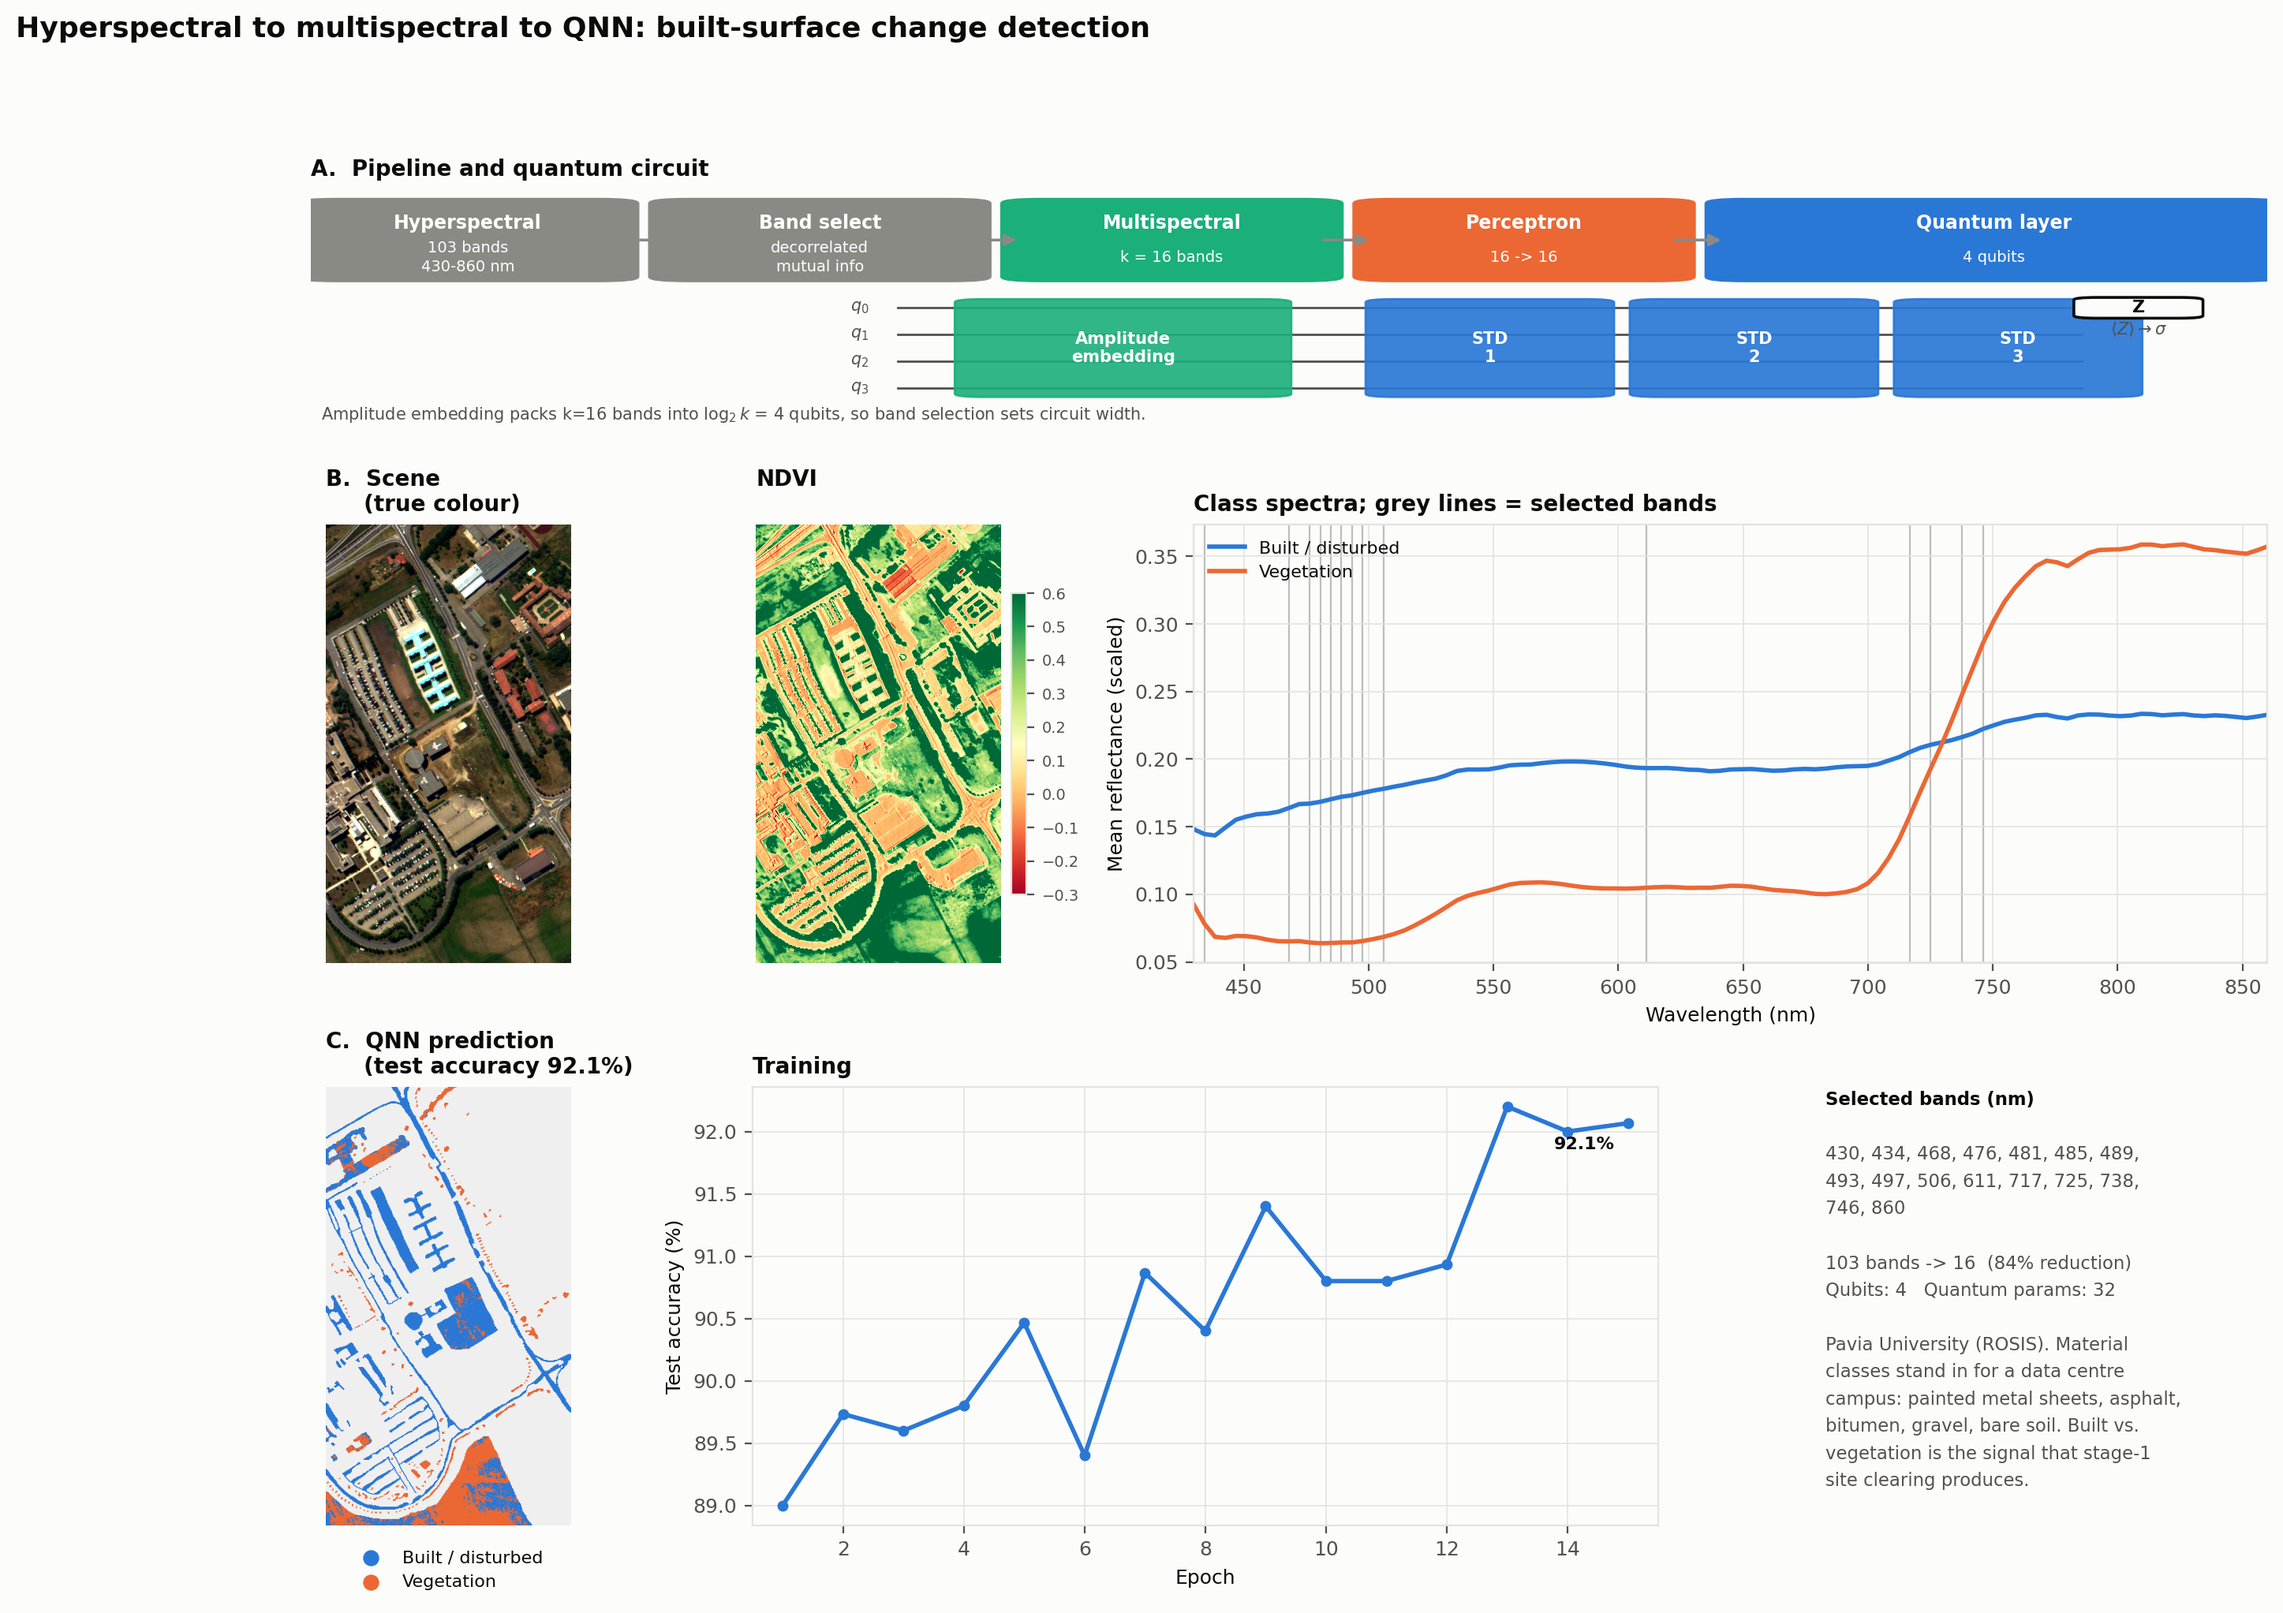
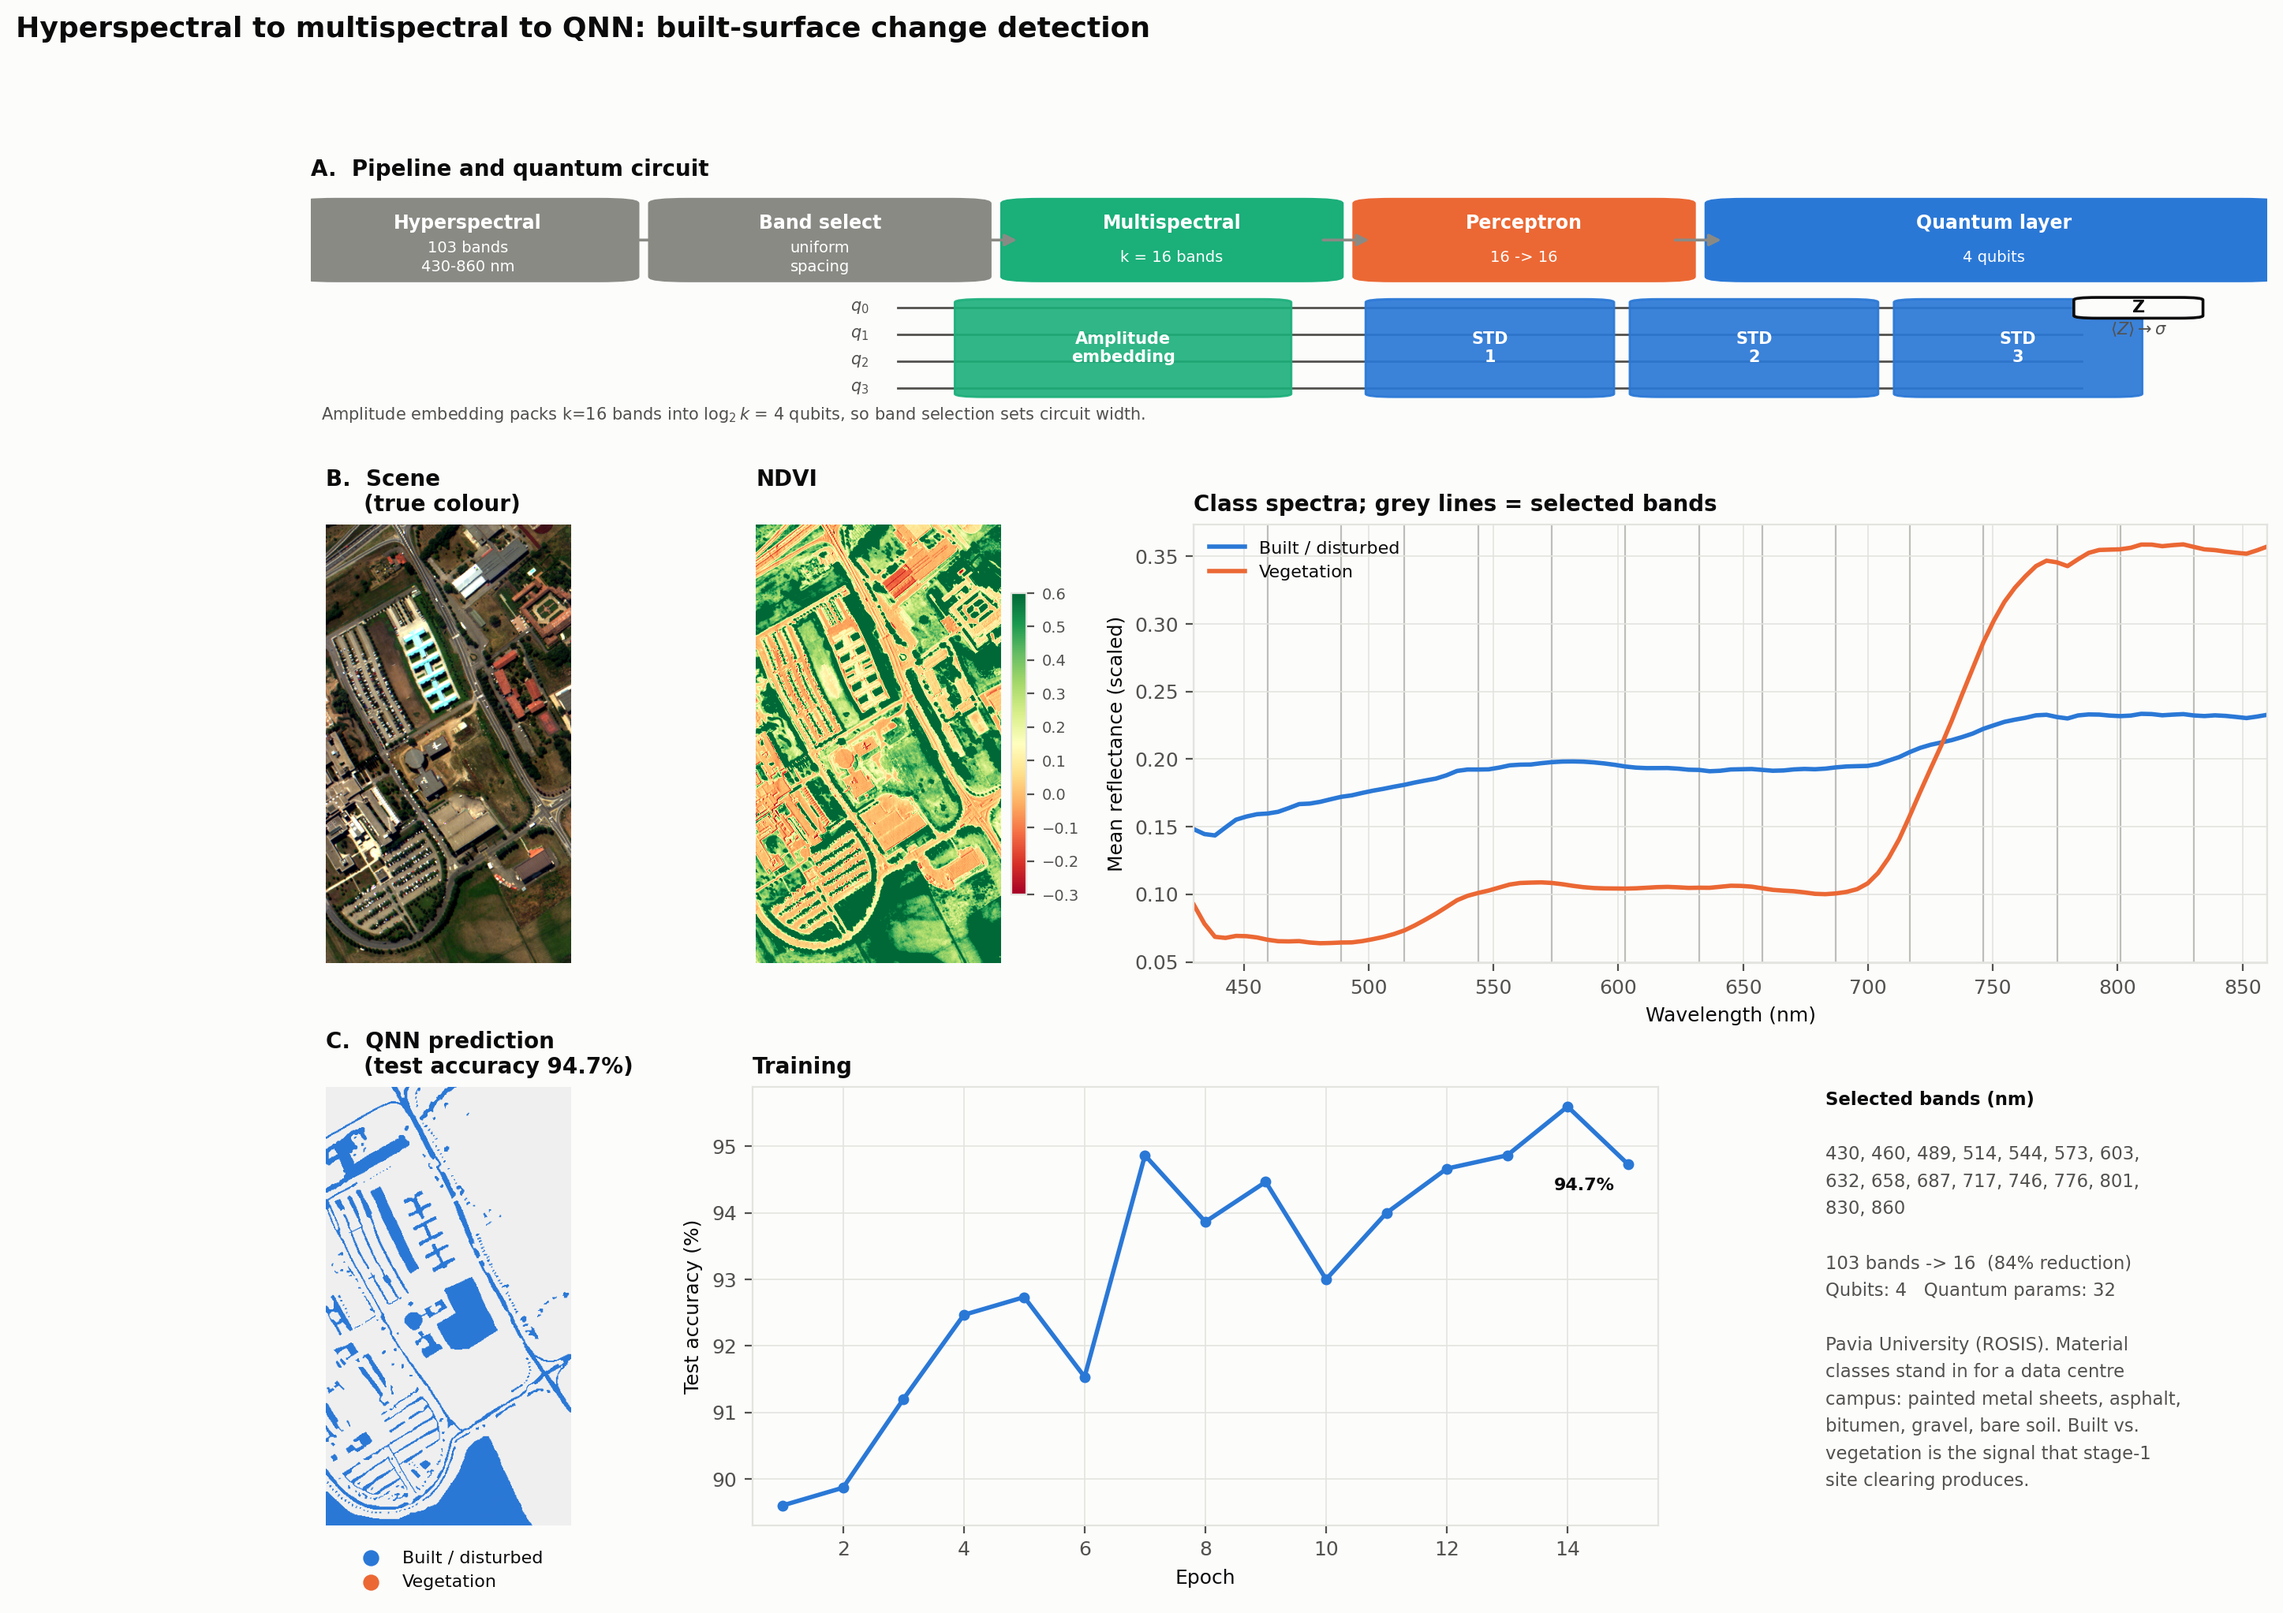
Use uniform band selection in the pipeline figure
The sweep shows uniform spacing beats decorrelated MI at every k >= 16, so the
showcase figure was demonstrating the losing method - and reporting a different
accuracy at k=16 than fig_scaling did (92.1% vs 95.2%). Now consistent.

diff --git a/make_figures.py b/make_figures.py
@@ -69,7 +69,7 @@ def panel_schematic(ax, k, n_qubits):
     y, h = 0.58, 0.36
     stages = [
         (0.005, 0.150, "Hyperspectral", "103 bands\n430-860 nm", MUTED, MUTED),
-        (0.185, 0.150, "Band select", "decorrelated\nmutual info", MUTED, MUTED),
+        (0.185, 0.150, "Band select", "uniform\nspacing", MUTED, MUTED),
         (0.365, 0.150, "Multispectral", f"k = {k} bands", C_A, C_A),
         (0.545, 0.150, "Perceptron", f"{k} -> {2**n_qubits}", C_C, C_C),
         (0.725, 0.270, "Quantum layer", f"{n_qubits} qubits", C_Q, C_Q),
@@ -176,10 +176,17 @@ def panel_result(ax_map, ax_hist, cube, gt, pred_map, acc, hist):
     ax_hist.set_xlim(0.5, len(hist) + 0.5)
 
 
-def figure_pipeline(k=16):
+def figure_pipeline(k=16, method="uniform"):
+    """
+    Uniform selection by default: the sweep in run_experiment.py shows it beats
+    decorrelated MI at every k >= 16, so the showcase figure should use the
+    method that wins. Using decorr here would report a different accuracy at the
+    same k than fig_scaling does.
+    """
     cube, gt = load_pavia()
     X, y = binary_task(cube, gt)
-    idx = select_bands_decorrelated(X, y, k, "mi")
+    idx = (select_bands(X, y, k, "uniform") if method == "uniform"
+           else select_bands_decorrelated(X, y, k, "mi"))
     n_qubits = int(np.log2(k))
 
     Xtr, ytr, Xte, yte = split(X[:, idx], y, seed=0)
